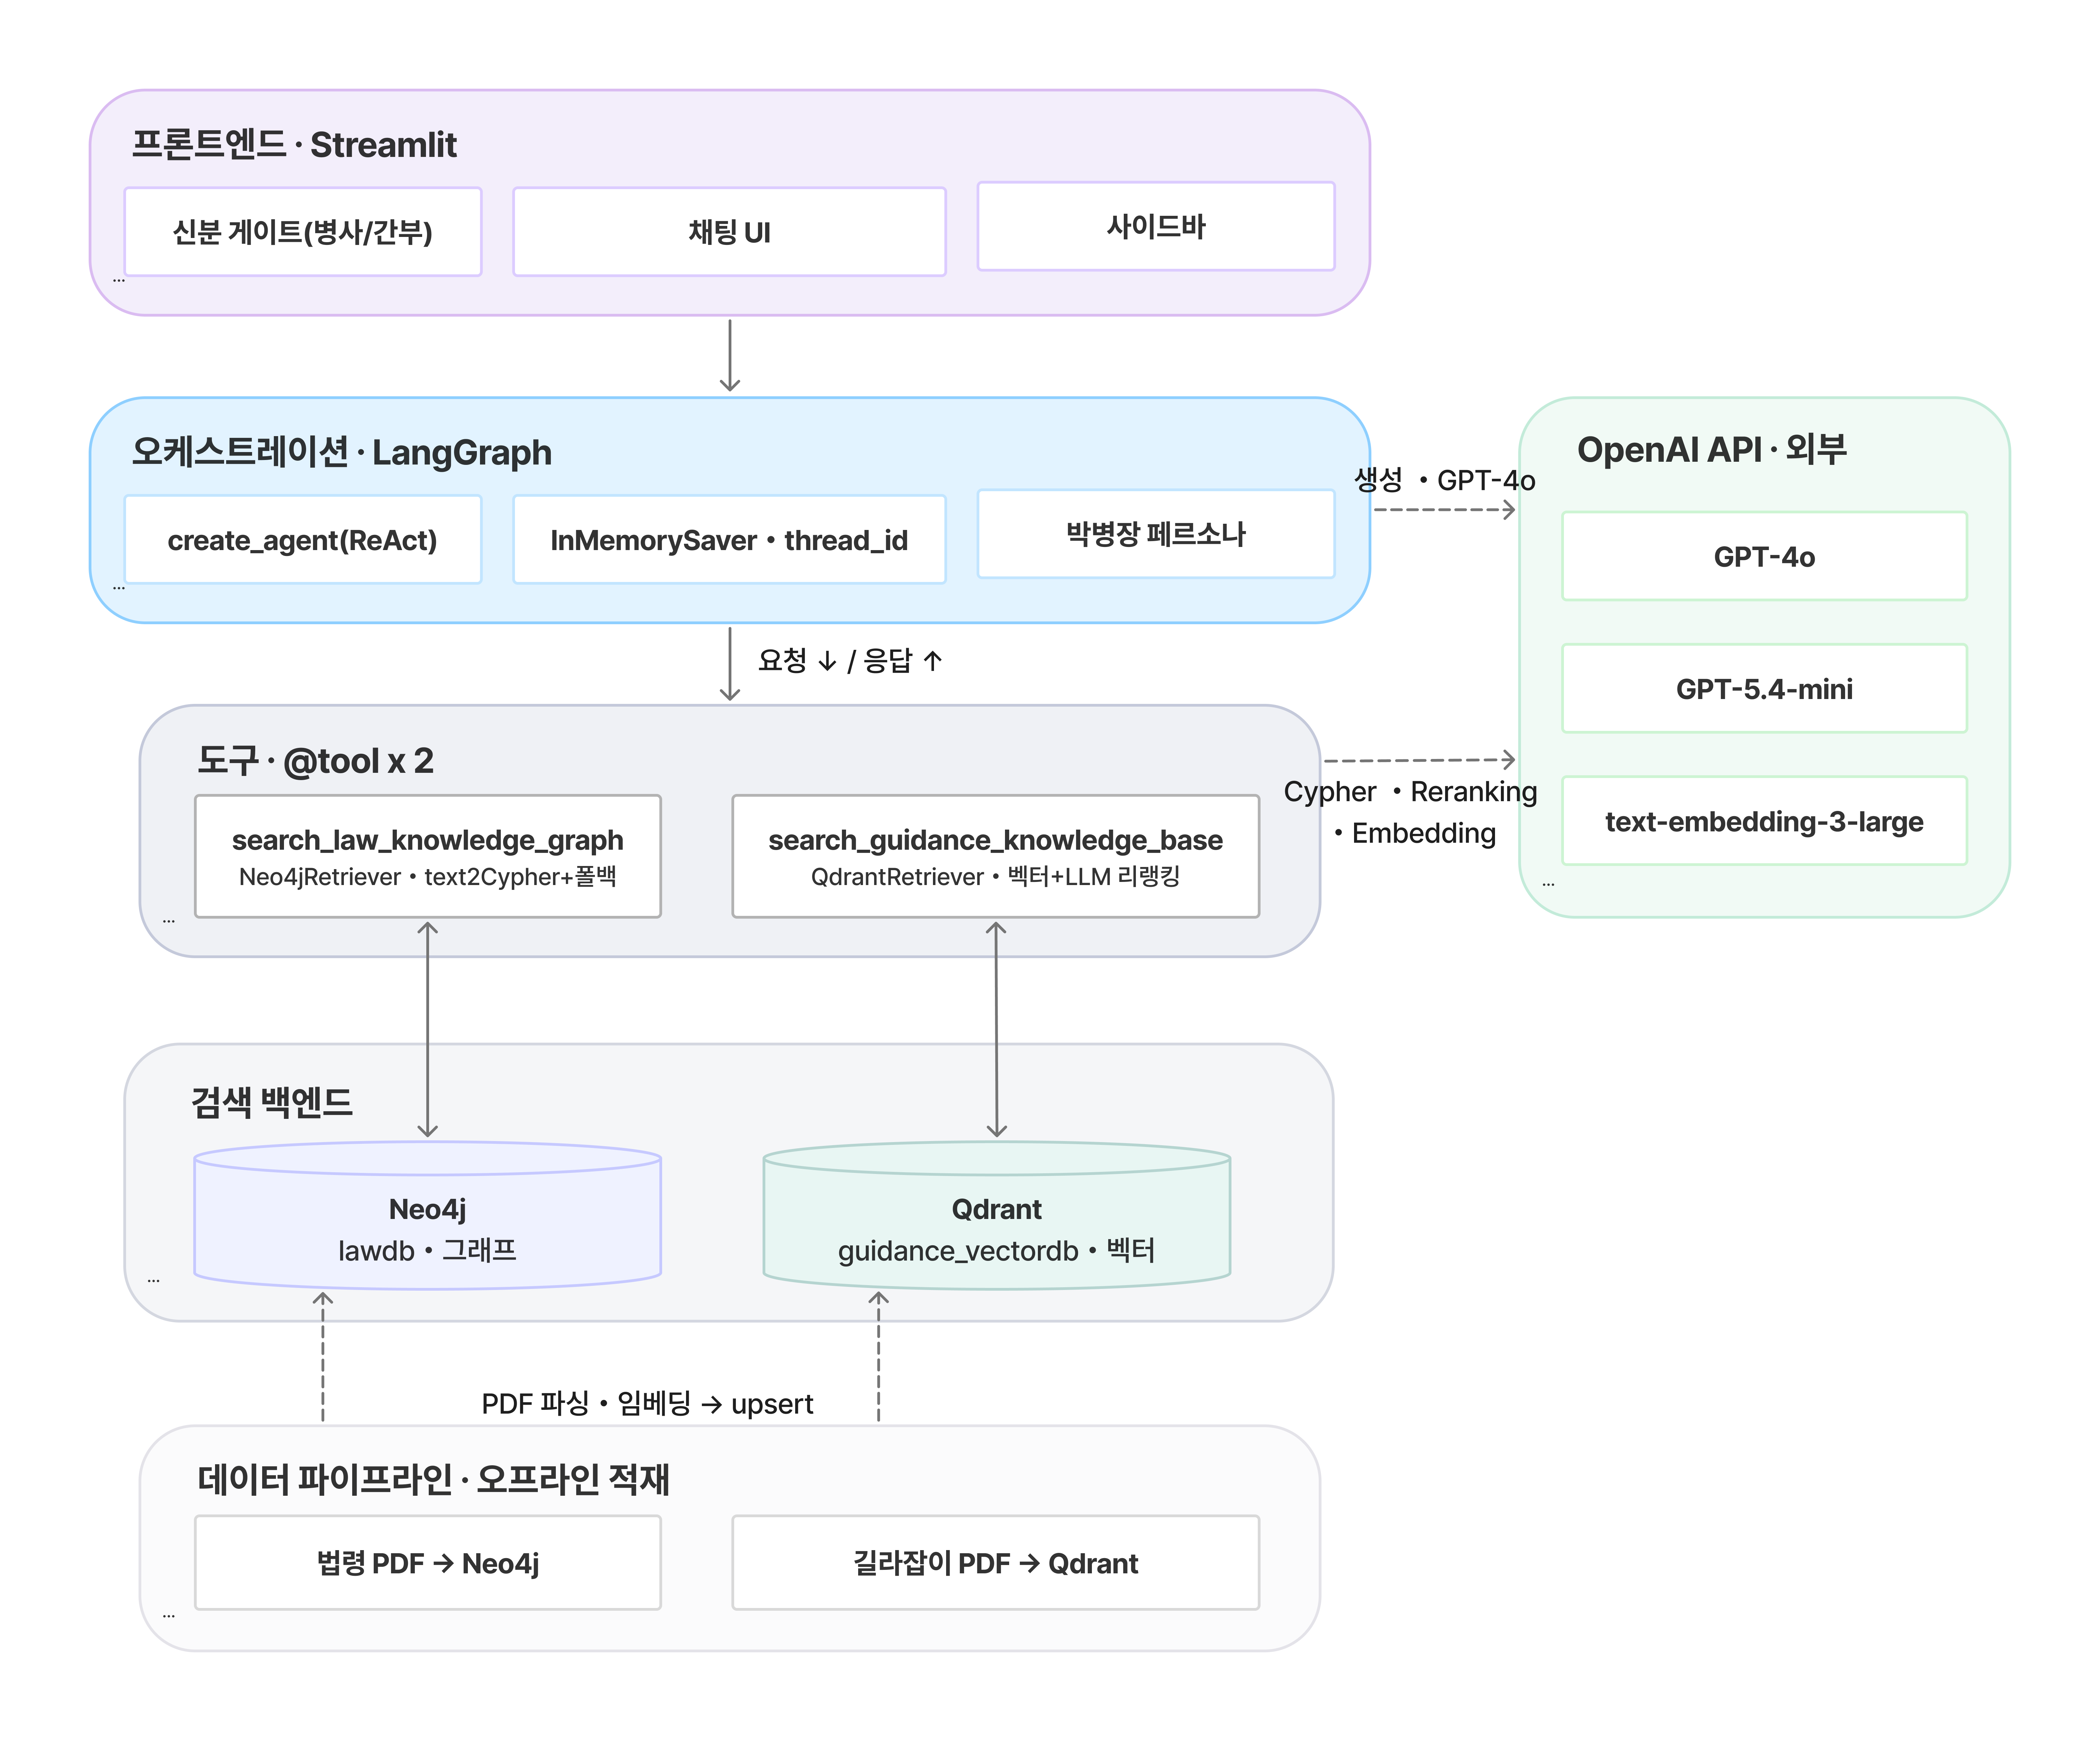
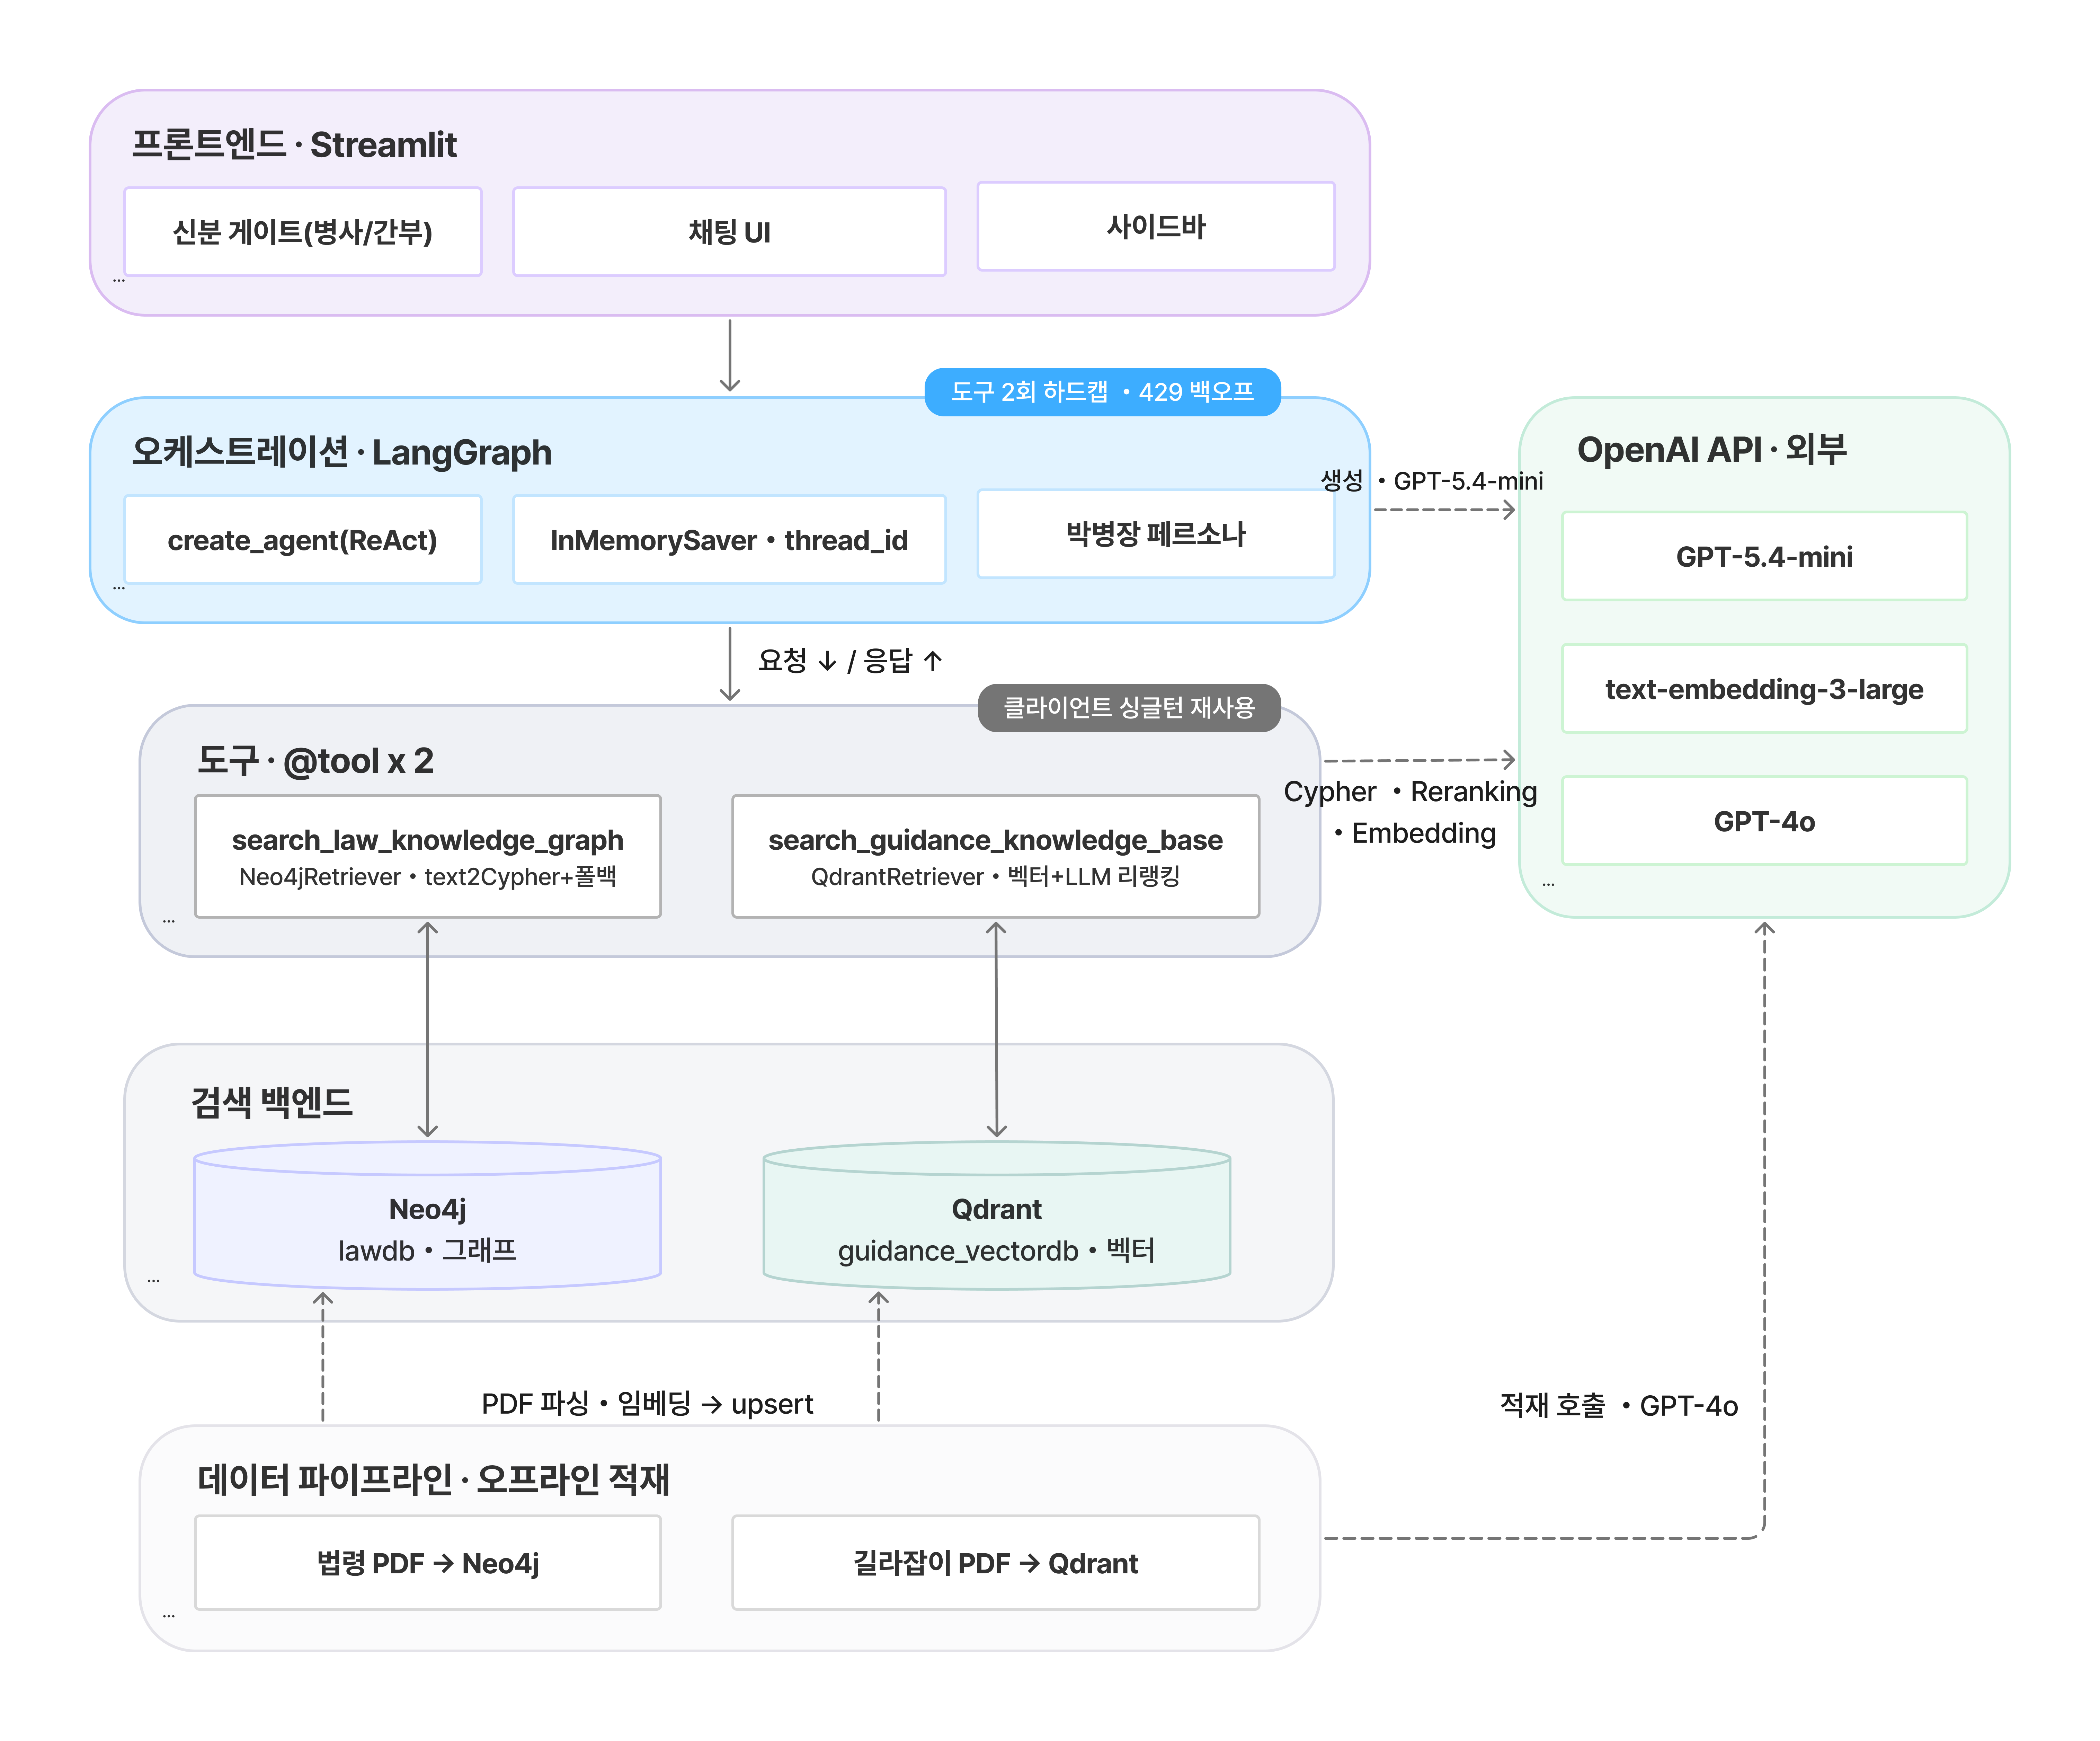
README 수정

diff --git a/산출물/RAG_평가.md b/산출물/RAG_평가.md
@@ -3,17 +3,17 @@
 
 박병장의 설계 원칙은 "LLM이 법적 판단을 지어내지 않고, 검증된 조문·안내를 검색해 인용한다"이다. 이 원칙이 실제로 지켜지는지 — **맞는 근거를 찾아오는가(검색)**, **찾아온 근거에 충실하게 답하는가(생성)** — 를 수치로 확인하는 것이 이 평가의 목적이다.
 
-평가는 두 검색 소스(Neo4j 조문 · Qdrant 생활 안내)를 **각각 독립적으로** 측정한다. 두 소스는 담는 내용·검색 방식이 달라, 하나로 합쳐 채점하면 어느 쪽이 병목인지 드러나지 않기 때문이다.
+평가는 챗봇이 실제로 검색하는 두 소스(Neo4j 조문 · Qdrant 생활 안내)를 **하나의 하이브리드 코퍼스로 합쳐** 측정하되, 각 평가 문항에 `source`(neo4j/qdrant)를 태깅해 소스별로 분해해 볼 수 있게 한다. 챗봇이 두 소스를 함께 검색하는 구조이므로, 평가의 단위 역시 두 소스를 함께 쓰는 실사용 시스템으로 두는 것이 현실을 대표한다.
 
-> **평가 대상 범위** — 이 평가는 각 소스의 **retriever + 생성 체인**(검색 → 컨텍스트 조립 → LLM 답변)을 대상으로 한다. 런타임의 `create_agent` 전체(도구 선택·재호출 등 오케스트레이션)가 아니라, 그 안에서 각 도구가 담당하는 검색·생성 품질을 분리해 본다. (오케스트레이션 자체 평가는 [향후 과제](#5-해석과-개선)로 둔다.)
+> **평가 대상 범위** — 이 평가는 운영과 동일한 **StateGraph 에이전트 전체**를 대상으로 한다. `LangGraphChatbot.ask()` 는 `agent → tools` 노드로 구성된 그래프를 실행하므로, 이 점수에는 **도구 선택·최대 2회의 (재)검색·답변 생성** 이 모두 포함된다. 즉 개별 retriever 체인이 아니라 오케스트레이션까지 통과한 종단(end-to-end) 성능을 본다.
 
 ```mermaid
 flowchart LR
-    DB[(평가 대상 DB)] -->|랜덤 샘플| TG["TestsetGenerator<br/>(gpt-4.1)"]
-    TG -->|질문 + 정답| DS[평가 데이터셋]
-    DS -->|user_input| CH["평가 대상 RAG 체인"]
+    C[(하이브리드 코퍼스<br/>Neo4j 조문 + Qdrant 안내)] -->|랜덤 샘플 k=20| TG["질문/정답 생성<br/>ChatOpenAI (gpt-4o)"]
+    TG -->|user_input + reference<br/>+ source + persona| DS[평가 데이터셋]
+    DS -->|user_input| CH["평가 대상 = StateGraph 에이전트<br/>도구 선택·최대 2회 검색·생성 (gpt-5.4-mini)"]
     CH -->|response + retrieved_contexts| DS
-    DS --> EV["RAGAS evaluate<br/>(gpt-4.1)"]
+    DS --> EV["RAGAS evaluate<br/>(judge: gpt-4o-mini)"]
     EV --> R[지표 점수]
 ```
 
@@ -30,111 +30,110 @@ flowchart LR
 **할루시네이션(faithfulness)을 핵심 지표로 둔다.**
 박병장은 법적 판단을 생성하지 않고 인용하는 것이 원칙이므로, "답변이 검색된 근거에서 벗어나지 않았는가"가 이 프로젝트에서 가장 중요한 항목이다.
 
-**적재·질의·평가의 임베딩 모델을 일치시킨다.**
-`text-embedding-3-large`(3072-dim)로 통일한다. 적재 시점과 검색 시점이 다르면 벡터 공간이 어긋나므로, 평가용 임베딩도 같은 모델을 쓴다.
+**리랭킹의 효과를 전후 비교로 측정한다.**
+Qdrant 길라잡이 검색기에 LLM 기반 리랭커를 도입한 것이 이번 평가의 핵심 개선이다. 리랭킹 적용 전과 후의 지표를 같은 테스트셋으로 비교해 개선 효과를 확인한다([5장](#5-평가-결과)).
+
+**적재·질의의 임베딩 모델을 일치시킨다.**
+검색 경로의 임베딩은 `text-embedding-3-large`(3072-dim)로 통일한다. 적재 시점과 검색 시점의 벡터 공간이 어긋나면 검색이 무너지기 때문이다.
 
 ---
 
 ## 2. 평가 지표 (RAGAS)
 
-RAGAS는 RAG 파이프라인을 정량 평가하는 오픈소스 프레임워크다(`pip install ragas rapidfuzz`). 아래 4개 지표를 사용한다.
+RAGAS는 RAG 파이프라인을 정량 평가하는 오픈소스 프레임워크다. 채점에는 judge LLM(`gpt-4o-mini`)과 임베딩을 쓰며, 아래 4개 지표를 사용한다.
 
 | 단계 | 지표 (RAGAS 클래스) | 무엇을 보는가 | 점수 |
 |---|---|---|---|
-| 검색 | **Context Precision** (`LLMContextPrecisionWithReference`) | 검색된 문서 중 관련 있는 것이 얼마나 상위에 오는가 | 0~1 (↑) |
-| 검색 | **Context Recall** (`LLMContextRecall`) | 정답에 필요한 정보가 검색 결과에 얼마나 포함됐는가 | 0~1 (↑) |
+| 검색 | **Context Precision** (`ContextPrecision`) | 검색된 컨텍스트 중 정답(reference)과 관련된 것이 얼마나 상위에·집중적으로 오는가 | 0~1 (↑) |
+| 검색 | **Context Recall** (`ContextRecall`) | 정답(reference)에 필요한 정보가 검색 결과에 얼마나 포함됐는가 | 0~1 (↑) |
 | 생성 | **Faithfulness** (`Faithfulness`) | 답변의 주장들이 검색 문맥에서 추론 가능한가 (할루시네이션 반대) | 0~1 (↑) |
-| 생성 | **Answer Relevancy** (`AnswerRelevancy`) | 답변이 질문에 얼마나 부합하는가 | -1~1 (↑) |
+| 생성 | **Answer Relevancy** (`AnswerRelevancy`) | 답변이 질문에 얼마나 부합하는가 | 0~1 (↑) |
 
-각 지표의 산정 방식(주장 추출·문맥 대조·질문 역생성 등)은 노트북 2장에 정리돼 있어 여기서는 생략한다.
+- **Context Precision / Recall 은 `reference`(정답)를 기준으로** 검색 결과를 대조한다. "검색이 정답에 필요한 근거를 상위에·충분히 가져왔는가"를 본다.
+- **Answer Relevancy 는 임베딩을 사용**해 질문과 답변의 부합도를 측정하므로, RAGAS 평가에 임베딩이 필요하다.
+- 각 지표의 산정 방식(주장 추출·문맥 대조·질문 역생성 등)은 노트북에 정리돼 있어 여기서는 생략한다.
 
 ---
 
 ## 3. 평가 파이프라인
 
-두 소스 모두 아래 동일한 흐름을 따른다. 다른 것은 [소스별 설정](#4-평가-대상별-설정)뿐이다.
-
 **(1) 합성 테스트셋 생성**
-평가 대상 DB에서 문서를 랜덤 샘플링(k=5)하고, `TestsetGenerator`로 **질문(`user_input`)과 정답(`reference`)**을 생성한다.
+하이브리드 코퍼스에서 문서 `TESTSET_SIZE`(=20)개를 무작위로 뽑고, 각 문서를 **유일한 근거(context)** 로 삼아 `ChatOpenAI`(gpt-4o)를 한 번씩 호출해 **질문(`user_input`)과 정답(`reference`)** 을 생성한다. 페르소나를 번갈아 넣어(군 복무자 ↔ 법령 확인 민원인) 실제 사용자가 물어볼 법한 질문을 유도한다. 문서가 이미 청크/조문 단위이므로 추가 분할은 하지 않는다. (테스트셋 생성은 RAGAS `TestsetGenerator` 가 아니라 자체 LLM 생성이며, 채점만 RAGAS를 쓴다.)
 
 | 항목 | 값 |
 |---|---|
-| 생성 LLM | `gpt-4.1` (`TestsetGenerator`는 gpt-5 이후 모델 미지원) |
-| 생성 임베딩 | `text-embedding-3-large` |
-| 생성 방식 | `generate_with_chunks(docs, testset_size=10)` |
-| 생성 지침 | 소스별 `llm_context`로 지정 (아래 4장) |
+| 생성 LLM | `gpt-4o` (temperature 0.7) |
+| 생성 단위 | 문서 1개당 질문 1 + 정답 1 |
+| 근거(context) | 해당 문서 본문 → `reference_contexts` |
+| 태깅 | `source`(neo4j/qdrant), `persona` |
+| 출력 | `rag_testset.csv` (컬럼: `user_input · reference · reference_contexts · source · persona`) |
 
-**(2) 평가 대상 RAG 체인 실행**
-생성된 각 `user_input`을 평가 대상 체인에 넣어 **답변(`response`)**과 **검색 결과(`retrieved_contexts`)**를 채운다. 체인은 `retriever → 컨텍스트 조립 → 프롬프트 → LLM → 파서` 구조이며, 프롬프트는 "context에 근거가 없으면 '정보가 부족해 답을 할 수 없습니다'로 답하고 추측하지 말 것"을 명시한다.
+**(2) 평가 대상 에이전트 실행**
+생성된 각 `user_input`을 `LangGraphChatbot.ask()`에 넣어 **답변(`response`)** 과 **실제 검색 결과(`retrieved_contexts`)** 를 채운다. 에이전트(StateGraph)가 질문 성격에 따라 도구를 스스로 선택하며, 필요하면 최대 2회까지 (재)검색한다. 여기서 `retrieved_contexts`(에이전트가 런타임에 검색해 온 것)는 `reference_contexts`(테스트셋 생성 근거)와 구분되며, 검색 지표는 이 둘의 관계를 채점한다.
 
 **(3) RAGAS 채점**
 `user_input` / `retrieved_contexts` / `response` / `reference` 4개 컬럼으로 `EvaluationDataset`을 만들고 `evaluate()`로 4개 지표를 채점한다.
 
 | 항목 | 값 |
 |---|---|
-| 채점 LLM | `gpt-4.1` |
-| 채점 임베딩 | `text-embedding-3-large` |
-| 지표 | `LLMContextRecall`, `LLMContextPrecisionWithReference`, `Faithfulness`, `AnswerRelevancy` |
+| 채점(judge) LLM | `gpt-4o-mini` (temperature 0) |
+| 채점 임베딩 | `OpenAIEmbeddings` (Answer Relevancy용) |
+| 지표 | `Faithfulness`, `AnswerRelevancy`, `ContextPrecision`, `ContextRecall` |
+| 출력 | 문항별 점수 CSV + 지표별 평균 |
 
 ```mermaid
 flowchart TD
-    S1[① DB 랜덤 샘플 → TestsetGenerator<br/>질문·정답 생성] --> S2[② 평가 체인 실행<br/>response · retrieved_contexts 채움]
-    S2 --> S3[③ EvaluationDataset 구성]
-    S3 --> S4[④ RAGAS evaluate → 지표 점수]
+    S1["① 하이브리드 코퍼스 랜덤 샘플(k=20)<br/>→ gpt-4o로 질문·정답 생성"] --> S2["② StateGraph 에이전트 실행<br/>response · retrieved_contexts 채움"]
+    S2 --> S3["③ EvaluationDataset 구성"]
+    S3 --> S4["④ RAGAS evaluate → 지표 점수"]
 ```
 
 ---
 
-## 4. 평가 대상별 설정
+## 4. 평가 대상 시스템
 
-| | **Neo4j 평가** (`RAG_evaluation_Neo4j.ipynb`) | **Qdrant 평가** (`RAG_evaluation_Qdrant_1.ipynb`) |
-|---|---|---|
-| 대상 DB | `lawdb` (법령 조문) | `guidance_vectordb` (생활 안내) |
-| Retriever | text-to-Cypher + 벡터 폴백 | `as_retriever(k=5)` (벡터 유사도) |
-| 샘플 추출 | `ARTICLE` 노드 `ORDER BY rand() LIMIT 5` | `scroll` 전량 → `random.sample(…, 5)` |
-| 테스트셋 지침 | 군 법령 질문 — 조문번호·법령명 명시형 + 주제·상황형 혼합 | 현역병 복지 관련 질문 |
-| 예시 질문 | "군인연금법 제8조는 무엇인가요?" | "병장의 월급은?" |
-| 안전장치 | Cypher 금지어(`CREATE`·`DELETE`·`SET`·`MERGE` 등) 차단 | — |
+**에이전트 (`run_chatbot.py` · StateGraph)**
+`agent`(LLM 판단) → `tools`(검색 실행) 노드로 구성된 명시적 그래프다. 도구 선택·재검색 여부·답변 생성은 모두 시스템 프롬프트를 따르는 LLM이 판단하고, 코드가 강제하는 것은 **도구 호출 최대 2회 하드캡**뿐이다. 명확한 질문은 도구 하나로 끝내고, 보수·휴가·교육처럼 **법적 근거와 실무 절차가 함께 필요한 교차 주제**이거나 첫 검색이 부족할 때만 다른 도구를 순차적으로 한 번 더 호출한다. 모델은 `gpt-5.4-mini`, 단기 메모리는 `InMemorySaver`(thread_id)로 유지한다.
+
+**법령 도구 — `search_law_knowledge_graph` (Neo4j)**
+text-to-Cypher로 조문을 조회하고, 실패(생성 오류·안전하지 않은 Cypher·실행 오류·0건)하면 벡터 검색(`article_vector_index`)으로 폴백한다. 폴백은 코사인 유사도 임계값(0.75)을 넘는 문서만 채택하고, 없으면 최상위 1개만 반환해 무관한 조문이 섞이는 것을 막는다. CUD 계열 금지어(`CREATE`·`DELETE`·`SET`·`MERGE` 등)를 차단하는 안전장치가 있다.
+
+**길라잡이 도구 — `search_guidance_knowledge_base` (Qdrant) · 이번 리랭킹의 대상**
+벡터 검색으로 넉넉히 15개를 확보한 뒤(recall 확보), LLM 리랭커가 15개 전부에 질문 관련도를 0~10점으로 매기고, 임계값(6.0)을 넘는 문서만 채택한다(넘는 문서가 없으면 최상위 1개). 문서를 "포함/배제"하지 않고 전부 점수화한 뒤 컷하므로, 정답 문서가 잘려 나가 recall이 깨지거나 노이즈가 백필되어 precision이 떨어지는 문제를 구조적으로 피한다. **이 리랭커의 적용 전/후가 5장 결과의 비교 대상이다.**
 
 ---
 
 ## 5. 평가 결과
 
-> TestsetGenerator를 통해 합성된 테스트셋 10개를 가지고 평가 진행
-- 랜덤 샘플이므로 실행마다 값이 달라질 수 있음 → 시드 고정 또는 수회 평균 권장.
+> 합성 테스트셋 20개(`gpt-4o` 생성)에 대해, RAGAS 4개 지표로 채점한 결과다.
+> **리랭킹(Qdrant LLM 리랭커) 적용 전과 후**를 같은 테스트셋으로 비교한다.
+> 랜덤 샘플이므로 실행마다 값이 달라질 수 있어, 시드 고정 또는 수회 평균을 권한다.
 
-### 5.1 소스별 지표 점수
+### 5.1 리랭킹 전후 비교 (n=20)
 
-| 소스 | Context Precision | Context Recall | Faithfulness | Answer Relevancy |
-|---|---|---|---|---|
-| Neo4j (`lawdb`) | 0.7222 | 0.4700 | 0.4615 | 0.3212 |
-| Qdrant (`guidance_vectordb`) | 0.3030 | 0.8667 | 0.8363 | 0.4737 | 
+| 지표 | 리랭킹 전 | 리랭킹 후 (최종) | 변화 |
+|---|---|---|---|
+| **Context Precision** | 0.4350 | **0.8000** | ▲ +0.3650 |
+| **Context Recall** | 0.4550 | **0.6500** | ▲ +0.1950 |
+| **Faithfulness** | 0.7800 | **0.7803** | ≈ +0.0003 |
+| **Answer Relevancy** | 0.8600 | **0.5348** | ▼ −0.3252 |
 
-### 5.2 관찰 (정성 메모)
-
-- 낮게 나온 지표와 그 원인으로 의심되는 케이스: _____
-- "정보가 부족합니다"로 회피한 질문 수 / 사유: _____
-- 검색은 맞았으나 생성이 어긋난(또는 그 반대) 사례: _____
+**검색은 크게 개선됐으나, 생성 지표는 엇갈렸다.** 리랭커가 직접 겨냥한 검색 정밀도(Context Precision)가 +0.3650으로 가장 크게 올랐고(0.4350→0.8000), 재현율(Context Recall)도 +0.1950 상승했다(0.4550→0.6500). 노이즈가 걷히며 검색 병목이 완화된 것이다. 반면 생성 쪽은 근거 충실성(Faithfulness)이 0.7800→0.7803으로 사실상 정체했고, 질문 적합도(Answer Relevancy)는 0.8600→0.5348로 오히려 **크게 하락**했다. 검색 정밀도를 끌어올린 대가로 답변 적합도를 잃은 트레이드오프가 나타난 것이다(원인은 [6장](#6-해석과-개선) 참조).
 
 ---
 
 ## 6. 해석과 개선
 
-- **지표별 해석**: 어느 단계(검색 vs 생성)가 병목인지 — 예) Recall은 높은데 Precision이 낮으면 관련 문서는 들어오나 순위가 밀림 → `top_k`·리랭킹 검토. Faithfulness가 낮으면 프롬프트의 근거 준수 지침 강화. _____
-- **개선 실험 기록**: 청킹 크기, `top_k`, 프롬프트 변경 등 조정 전후 점수 비교표. _____
+**리랭킹은 검색 병목을 완화했으나, 답변 적합도를 떨어뜨렸다.**
+리랭킹 전에는 Context Precision·Recall이 0.43~0.46으로 낮아 검색이 병목이었다. LLM 리랭커 도입 후 Precision은 0.80, Recall은 0.65로 올라 "관련 문서가 상위에 오지 못하거나 충분히 담기지 못하던" 문제가 크게 개선됐다. 그러나 생성 지표는 함께 오르지 않았다. Faithfulness는 0.7800→0.7803으로 정체했고, Answer Relevancy는 0.8600→0.5348로 급락했다. 검색 정밀도와 답변 적합도가 정반대로 갈렸다는 것은, 리랭커의 임계값(6.0)이 **과하게 필터링**하여 답변에 필요한 맥락까지 잘려 나갔음을 시사한다. 컨텍스트가 과도하게 줄면 LLM이 질문에 온전히 답할 재료가 부족해져, 검색 정밀도는 올라도 답변 품질(적합도)은 무너진다.
 
-**향후 과제**
+**남은 개선 여지.**
+- **최우선 — Answer Relevancy 회복.** 지금은 정밀도를 위해 답변 적합도를 희생한 상태다. 리랭커 임계값(6.0)을 낮추거나(예: 4~5), 임계값을 넘는 문서가 없을 때의 `fallback_k`(현재 1)를 키워 **최소 컨텍스트를 보장**하면, 정밀도를 크게 잃지 않으면서 답변 재료 부족을 완화할 수 있다. 조정 전후로 Precision과 Answer Relevancy를 함께 보며 균형점을 찾는다.
+- **Faithfulness 정체 점검.** 검색이 깨끗해졌는데도 근거 충실성이 그대로다. 컨텍스트가 지나치게 줄어 답변이 근거를 충분히 활용하지 못하는지, 생성 프롬프트가 근거를 제대로 녹여내는지 함께 확인한다.
+- **Recall은 더 끌어올릴 여지.** Qdrant 쪽은 청킹 크기·`search_limit` 조정으로, 법령(Neo4j) 쪽은 text-to-Cypher 정확도·폴백 임계값 조정으로 개선할 수 있다.
+- **리랭킹은 현재 Qdrant 경로에만 있다.** 법령(Neo4j) 검색에도 동일한 관련도 리랭킹을 적용하면 법령 문항의 검색 정밀도를 개선할 수 있다.
+
+### 향후 과제
 - **인용 정확도 지표 추가**: 답변에 표기된 조문번호·문서명이 실제 `retrieved_contexts`와 일치하는지 확인하는 프로젝트 고유 지표. RAGAS 기본 4종에는 없으나 박병장의 핵심 원칙과 직결된다.
-- **오케스트레이션 평가**: `create_agent`가 질문을 올바른 도구로 보내는지(도구 라우팅 정확도), 재검색이 실제로 결과를 개선하는지 측정.
+- **도구 라우팅 정확도 지표**: 문항의 `source`(정답 소스)와 에이전트가 실제 호출한 도구를 대조해 라우팅 정확도를 산출하고, 교차 주제에서 두 도구를 함께 부른 경우 그 효과를 측정한다.
 - **신분별(병/간부) 페르소나 평가**: 경어/반말 일관성 등은 RAGAS 밖의 별도 정성 평가로.
-
----
-
-## 부록 · 확인이 필요한 지점
-
-평가 노트북과 운영 시스템(`시스템_아키텍처.md`) 사이의 불일치로 짚어둘 점:
-
-- **생성 모델 불일치.** 평가 체인의 LLM은 `gpt-5.4-mini`인데, 운영 시스템은 `gpt-4o`(아키텍처 문서 기준)다. 지금 점수는 운영 생성 모델을 그대로 반영하지 못하므로, **평가 체인 모델을 운영과 맞추는 것**을 권한다.
-- **평가 대상 ≠ 운영 오케스트레이션.** 평가는 단순 LCEL 체인(retriever→프롬프트→LLM)을 대상으로 하고, 운영의 `create_agent`(도구 선택·재호출)는 포함하지 않는다. 검색·생성 품질 분리 측정에는 적절하나, 이 점수가 곧 에이전트 전체 성능은 아님을 명시해 둔다.
-
-> 특히 첫 두 항목(컬렉션명·생성 모델)은 평가 결과의 대표성에 직접 영향을 주므로 우선 확인을 권한다.

diff --git a/README.md b/README.md
@@ -15,7 +15,7 @@
 | Phase | Task | Owner |
 |:---:|:---|:---:|
 | 🟢 | 주제 선정 | 박동관 |
-| 🟢 | 데이터 확보 및 청킹 | 이용혁, 박동관 |
+| 🟢 | 데이터 확보 및 청킹 | 박동관, 이용혁 |
 | 🔵 | Neo4j · Qdrant Retriever 구현 | 박동관 |
 | 🔵 | 메모리(단기기억) 및 페르소나 구현 | 김세희, 박동관 |
 | 🔵 | 그래프 구조 및 라우팅 개선 | 전서연, 박동관, 김세희 |
@@ -23,7 +23,7 @@
 | 🟣 | 모델 평가 | 이용혁, 박동관 |
 | 🟣 | README 작성 | 김세희, 전서연 |
 | 🟣 | 산출물 작성 | 김세희, 전서연 |
-| 🟣 | 발표 준비 | 전체 |
+| 🟣 | 발표 준비 | 박동관, 김세희 |
 
 ---
 
@@ -64,7 +64,7 @@
 |:---|:---|
 | Language | ![Python](https://img.shields.io/badge/Python-3776AB?style=flat-square&logo=python&logoColor=white) |
 | Frontend | ![Streamlit](https://img.shields.io/badge/Streamlit-FF4B4B?style=flat-square&logo=streamlit&logoColor=white) |
-| AI | ![OpenAI](https://img.shields.io/badge/OpenAI-412991?style=flat-square&logo=openai&logoColor=white) ![LangChain](https://img.shields.io/badge/LangChain-1C3C3C?style=flat-square&logo=langchain&logoColor=white) ![LangGraph](https://img.shields.io/badge/LangGraph-111111?style=flat-square) |
+| AI / Evaluation | ![OpenAI](https://img.shields.io/badge/OpenAI-412991?style=flat-square&logo=openai&logoColor=white) ![LangChain](https://img.shields.io/badge/LangChain-1C3C3C?style=flat-square&logo=langchain&logoColor=white) ![LangGraph](https://img.shields.io/badge/LangGraph-111111?style=flat-square) ![Ragas](https://img.shields.io/badge/Ragas-02A884?style=flat-square) |
 | Database | ![Qdrant](https://img.shields.io/badge/Qdrant-DC244C?style=flat-square&logo=qdrant&logoColor=white) ![Neo4j](https://img.shields.io/badge/Neo4j-4581C3?style=flat-square&logo=neo4j&logoColor=white) |
 | Libraries | ![PyMuPDF](https://img.shields.io/badge/PyMuPDF-2C8EBB?style=flat-square&logo=adobeacrobatreader&logoColor=white) ![pdfplumber](https://img.shields.io/badge/pdfplumber-555555?style=flat-square&logo=adobeacrobatreader&logoColor=white) 
 
@@ -111,24 +111,31 @@ SKN31-3RD-2TEAM/
 ```
 ---
 
-## 4. 데이터 파이프라인
+## 4. 시스템 아키텍처
+
+• [⌜시스템 아키텍처⌟](산출물/시스템_아키텍처.md)에서 자세히 보기
+<img src="images/시스템_아키텍처.png">
+
+---
+
+## 5. 데이터 파이프라인
 
 • [⌜데이터 수집 및 전처리⌟](산출물/데이터_수집_및_전처리.md)에서 자세히 보기
 <img src="images/데이터_파이프라인.png">
 
 ---
 
-## 5. 실행 파이프라인
-
-• [⌜시스템 아키텍처⌟](산출물/시스템_아키텍처.md)에서 자세히 보기
+## 6. 실행 파이프라인
 <img src="images/실행_파이프라인.png">
 
 ---
 
-## 6. RAG 평가
+## 7. RAG 평가
+• [⌜RAG 평가⌟](산출물/RAG_평가.md)에서 자세히 보기
 
+---
 
-## 7.1 설치
+## 8. 설치
 
 ```bash
 cd psych_med_chatbot
@@ -177,7 +184,7 @@ pause
 > 
 > - 애플리케이션이 정상 실행되면 브라우저에서 Streamlit 페이지가 자동으로 열립니다. 
 
-## 7.2 Data Indexing
+## 8.2 Data Indexing
 
 ### Neo4j
 
@@ -197,23 +204,15 @@ code guidance_loader.ipynb
 
 ---
 
-
----
-
-## 8. 회고
-
-## 6. 수행 결과
-
----
-
-## 7. 회고
+## 9. 회고
 #### 박동관
  - 이번 프로젝트를 통해 군 법령 데이터와 군생활 팁 데이터를 수집하고, 데이터의 특성에 맞게 청킹하는 과정을 수행하였다. 또한 각 데이터의 특성을 고려하여 구조적 관계를 활용하는 정보는 Neo4j에, 의미 기반 검색에 적합한 정보는 Qdrant에 저장하는 RAG 파이프라인을 직접 구축해 볼 수 있었다.
 이후 각 데이터베이스를 참조하여 필요한 정보를 검색하는 Retriever를 구현하고, 이를 Tool 형태로 변환하여 Agent와 연동함으로써 LLM 기반 챗봇의 전체 동작 흐름을 설계하고 구현하는 경험을 쌓았다. 단순히 RAG를 사용하는 것에 그치지 않고, 데이터 저장부터 검색, Tool 연동, Agent 기반 응답 생성까지 전체 파이프라인을 직접 구성해 보면서 RAG 시스템의 구조와 동작 원리를 깊이 이해할 수 있었던 의미 있는 프로젝트였다.
 
 #### 고현아
-  - 이번 프로젝트에서 온전히 프론트엔드를 맡게 되어, 낯선 연동 작업 등 여러 어려움과 시행착오가 있었습니다.
-하지만 다음 홈페이지 구축 프로젝트를 앞두고 프론트엔드를 미리 직접 다뤄볼 수 있었던 덕분에, 앞으로의 과정도 거뜬히 잘 해낼 수 있다는 강한 자신감을 얻었습니다.
+  - 이번 프로젝트에서 늘 다루던 백엔드를 벗어나 처음으로 프론트엔드(Streamlit)를 온전히 전담하게 되었습니다.
+초기 디자인 기획부터 화면 구현까지 백지상태에서 시작하다 보니 막막함도 있었지만, 팀원들의 다양한 의견을 수용하고 그것을 실제 화면에 즉각적으로 적용해 나가는 과정이  새로웠습니다.  특히 개발 도중 백엔드의 로직이나 구조가 변경될 때마다, 프론트엔드 역시 그에 맞춰 유기적으로 코드를 수정하고 대응해야 하는 과정이 결코 쉽지 않았지만  수많은 시행착오를 끈질기게 해결하며 마침내 성공적으로 결과물을 완성해 냈을 때 잊지 못할 큰 성취감을 느꼈습니다.
+다음 홈페이지 구축을 앞두고 프론트엔드 설계와 흐름을 미리 체득한 덕분에, 앞으로의 프로젝트도 성공적으로 이끌 수 있다는 확신을 얻은 값진 경험이었습니다. 
 
 #### 김세희
  - 이번 프로젝트에서 데이터 성격에 따라 어울리는 도구를 알맞게 나누어 넣는 방법을 알게 되어 좋았고, 챗봇에 중요한 단기기억 코드를 직접 짜면서 챗봇이 어떻게 작동하는지 배울 수 있어서 뿌듯했습니다. 그리고 팀원들의 이번 프로에서 좀 더 용기내서 다양한 경험을 할 수 있어서 좋았고, 앞으로도 더 도전해 볼 자신감이 생겼습니다.